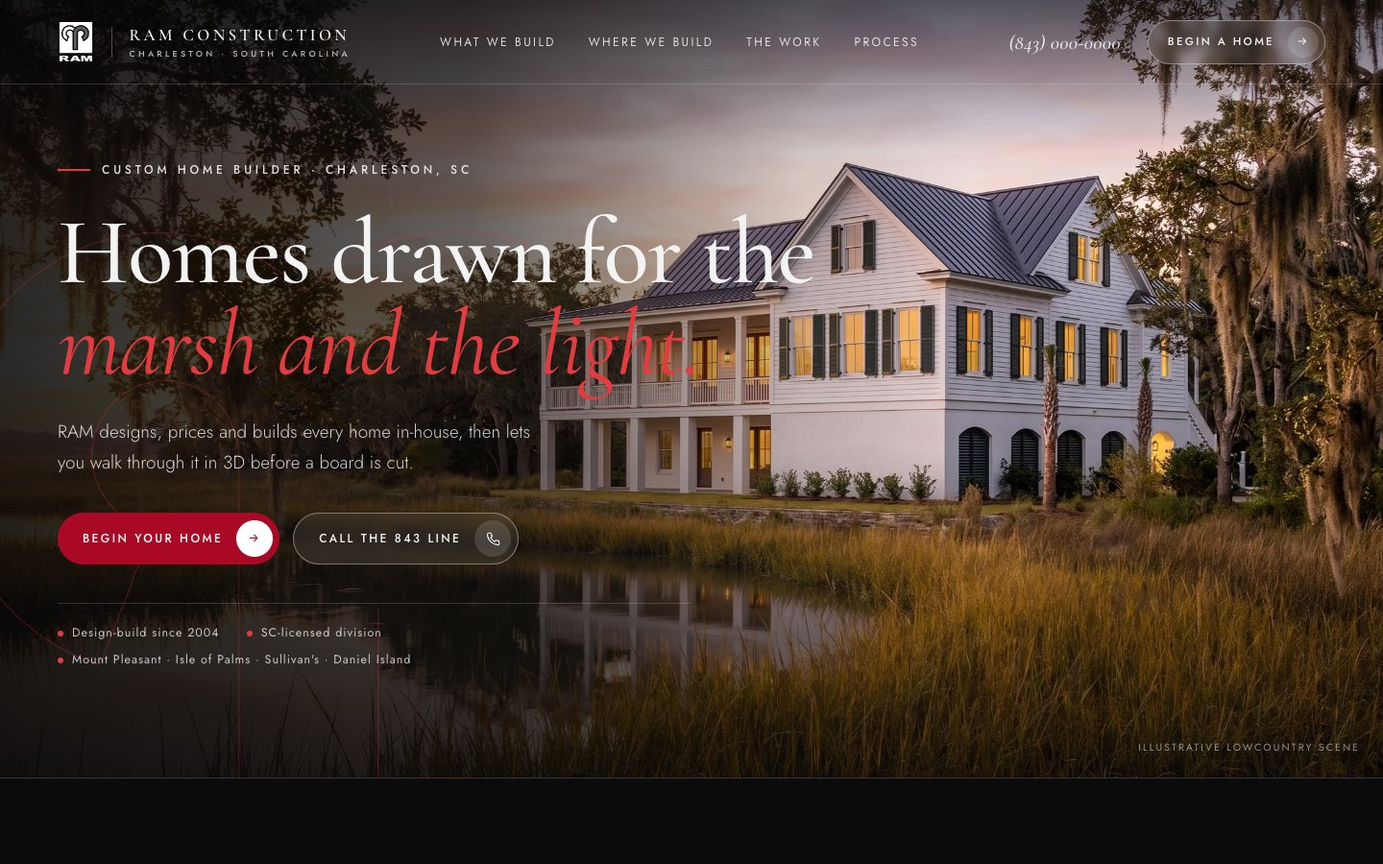
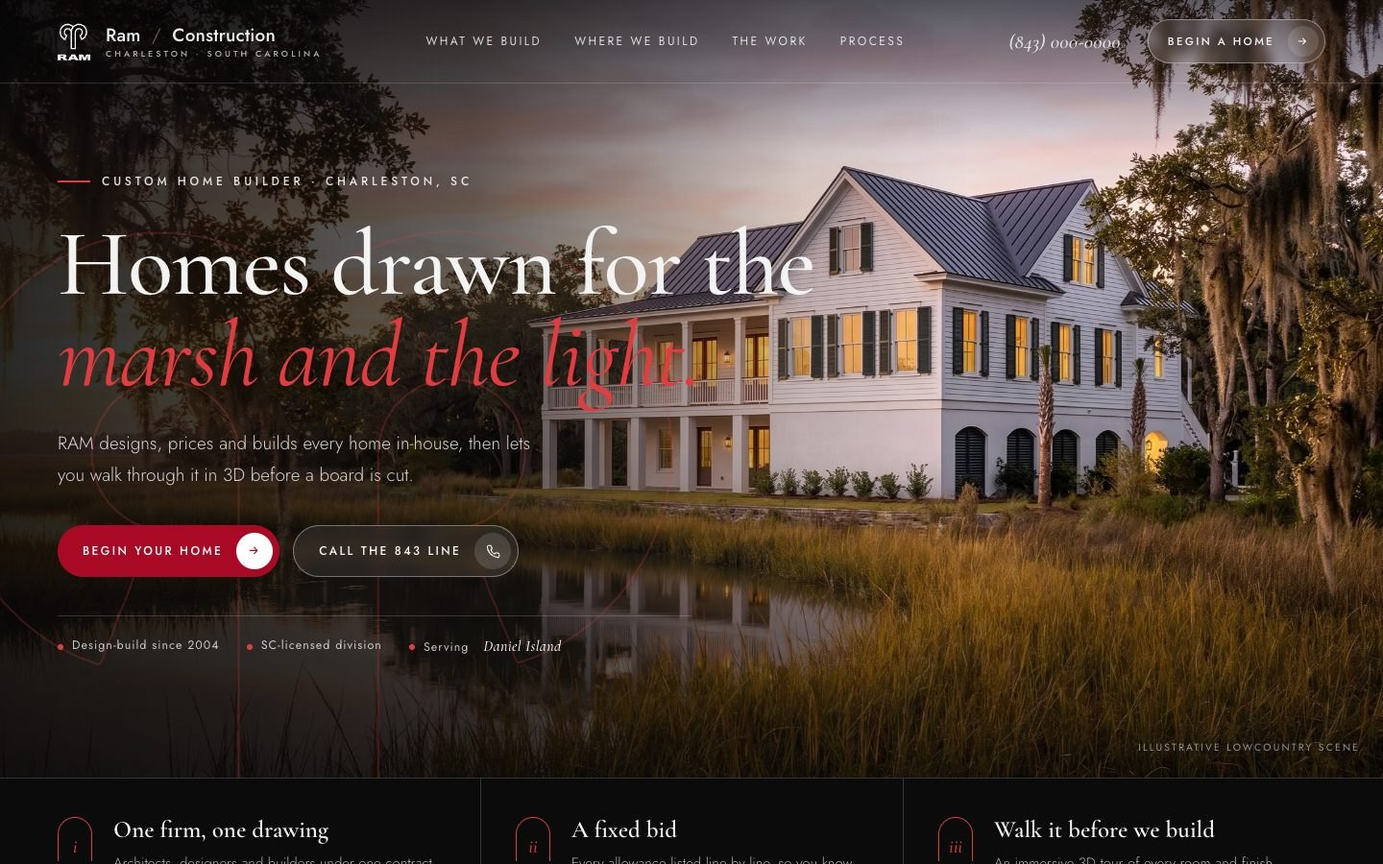
Pass 04: Ram / Construction lockup with the mark inline, open-space chapter pair, the numbers band on an open room

diff --git a/index.html b/index.html
@@ -85,13 +85,13 @@ em,.it{font-family:var(--serif);font-style:italic;font-weight:400}
 .hdr.is-solid::after{background:var(--rule)}
 .hdr-row{position:relative;width:var(--wrap);margin:auto;height:88px;display:grid;grid-template-columns:auto 1fr auto;align-items:center;gap:40px;transition:height .4s var(--ease)}
 .hdr.is-solid .hdr-row{height:76px}
-.lockup{display:flex;align-items:center;gap:18px}
-.lockup img{height:46px;width:auto;transition:height .4s var(--ease)}
-.hdr.is-solid .lockup img{height:40px}
-.lockup .wm{display:flex;flex-direction:column;gap:6px;padding-left:18px;border-left:1px solid rgba(243,243,243,.3);transition:border-color .4s}
-.hdr.is-solid .lockup .wm{border-color:var(--rule)}
-.lockup .wm b{font:600 17px/1 var(--serif);letter-spacing:.2em;text-transform:uppercase}
-.lockup .wm small{font:500 9px/1 var(--sans);letter-spacing:.36em;text-transform:uppercase;opacity:.72}
+.lockup{display:flex;align-items:center;gap:16px;color:inherit}
+.lockup .mark{height:42px;width:calc(42px * .82);flex:none;fill:currentColor;transition:height .4s var(--ease),width .4s var(--ease)}
+.hdr.is-solid .lockup .mark{height:36px;width:calc(36px * .82)}
+.lockup .wm{display:flex;flex-direction:column;gap:5px}
+.lockup .wm b{font:500 19px/1 var(--sans);letter-spacing:.01em;white-space:nowrap}
+.lockup .wm b i{font-style:normal;font-weight:300;opacity:.45;margin:0 .3em}
+.lockup .wm small{font:500 9px/1 var(--sans);letter-spacing:.34em;text-transform:uppercase;opacity:.7}
 .hdr-nav{display:flex;justify-content:center;gap:34px}
 .hdr-nav a{font:400 12px/1 var(--sans);letter-spacing:.2em;text-transform:uppercase;opacity:.88;position:relative;padding:9px 0;white-space:nowrap}
 .hdr-nav a::after{content:"";position:absolute;left:0;right:0;bottom:0;height:1px;background:var(--amber);transform:scaleX(0);transform-origin:left;transition:transform .35s var(--ease)}
@@ -113,8 +113,8 @@ em,.it{font-family:var(--serif);font-style:italic;font-weight:400}
   linear-gradient(90deg,rgba(5,5,6,.86) 0%,rgba(5,5,6,.62) 34%,rgba(5,5,6,.12) 58%,rgba(5,5,6,0) 70%),
   linear-gradient(0deg,rgba(5,5,6,.66),rgba(5,5,6,0) 42%)}
 .hero-horn{position:absolute;left:-4%;bottom:-16%;width:min(760px,60vw);color:var(--amber);opacity:.22;z-index:1;pointer-events:none}
-.hero-horn path{fill:none;stroke:currentColor;stroke-width:1.4;vector-effect:non-scaling-stroke}
-.js .hero-horn path{stroke-dasharray:2600;stroke-dashoffset:2600;animation:draw 4.2s .6s var(--ease) forwards}
+.hero-horn use{fill:none;stroke:currentColor;stroke-width:1.4;vector-effect:non-scaling-stroke}
+.js .hero-horn use{stroke-dasharray:2600;stroke-dashoffset:2600;animation:draw 4.2s .6s var(--ease) forwards}
 @keyframes draw{to{stroke-dashoffset:0}}
 .hero-in{position:relative;z-index:2;width:var(--wrap);margin:auto;padding:150px 0 96px}
 .kicker{display:flex;align-items:center;gap:12px;font:500 12px/1.5 var(--sans);letter-spacing:.32em;text-transform:uppercase;color:rgba(243,243,243,.9);margin-bottom:30px}
@@ -148,16 +148,31 @@ em,.it{font-family:var(--serif);font-style:italic;font-weight:400}
 .chapter{padding:130px 0 120px}
 .chapter-grid{display:grid;grid-template-columns:1fr 1.05fr;gap:100px;align-items:center}
 .chapter .h2{margin:22px 0 28px}
-.facts{margin-top:44px;border-top:1px solid var(--rule)}
-.facts div{display:grid;grid-template-columns:150px 1fr;gap:20px;padding:16px 0;border-bottom:1px solid var(--rule);font-size:15.5px}
-.facts dt{font:500 11px/1.9 var(--sans);letter-spacing:.24em;text-transform:uppercase;color:var(--red)}
-.facts dd{color:var(--text)}
+.recog{margin-top:36px;padding-top:24px;border-top:1px solid var(--rule);font:italic 500 22px/1.45 var(--serif);color:var(--black);max-width:30ch}
+.recog span{display:block;font:500 11px/1 var(--sans);letter-spacing:.24em;text-transform:uppercase;color:var(--red);margin-bottom:12px;font-style:normal}
 .pair{display:grid;grid-template-columns:1.12fr .88fr;gap:24px;align-items:end}
 .pair .tall .arch{aspect-ratio:3/4.35}
-.pair .short .arch{aspect-ratio:3/3.3}
+.pair .short .arch{aspect-ratio:3/3.5}
 .pair figcaption{border-top:1px solid var(--rule);padding-top:12px;margin-top:0}
 
-/* ── services · the arcade on the tint ───────────────────────────────── */
+/* ── the numbers · figures on an open room (photo band) ───────────────── */
+.numbers{position:relative;min-height:640px;display:flex;align-items:center;color:var(--alabaster);background:var(--black-night);overflow:hidden}
+.numbers-img{position:absolute;inset:0}
+.numbers-img img{width:100%;height:100%;object-fit:cover;object-position:50% 62%}
+.numbers::after{content:"";position:absolute;inset:0;background:linear-gradient(90deg,rgba(5,5,6,.8) 0%,rgba(5,5,6,.6) 50%,rgba(5,5,6,.42) 100%),linear-gradient(0deg,rgba(5,5,6,.5),rgba(5,5,6,0) 40%)}
+.numbers-in{position:relative;z-index:2;width:var(--wrap);margin:auto;display:grid;grid-template-columns:1fr auto;gap:70px;align-items:stretch;padding:120px 0 120px}
+.numbers-body .eyebrow{margin-bottom:44px}
+.figs{display:grid;grid-template-columns:repeat(4,1fr);gap:44px 36px}
+.fig{padding-bottom:22px;border-bottom:1px solid rgba(243,243,243,.32)}
+.fig b{display:block;font:500 clamp(58px,6.2vw,94px)/1 var(--serif);letter-spacing:-.02em;color:var(--alabaster);white-space:nowrap}
+.fig b i{font:italic 400 .36em/1 var(--serif);color:var(--amber);margin-left:.22em;letter-spacing:0}
+.fig span{display:block;margin-top:18px;font:500 11.5px/1.5 var(--sans);letter-spacing:.26em;text-transform:uppercase;color:rgba(243,243,243,.9)}
+.fig small{display:block;margin-top:8px;font:300 13px/1.55 var(--sans);color:rgba(243,243,243,.74)}
+.numbers-title{display:flex;align-items:center;justify-content:center;writing-mode:vertical-rl;transform:rotate(180deg);padding-left:6px;border-right:1px solid rgba(243,243,243,.25)}
+.numbers-title p{font:500 clamp(34px,3.4vw,50px)/1.08 var(--serif);letter-spacing:.01em;color:var(--alabaster);max-height:100%;text-align:center}
+.numbers-title p em{color:var(--amber)}
+.numbers-src{position:absolute;left:calc((100vw - var(--wrap))/2);bottom:24px;z-index:2;font:400 10.5px/1 var(--sans);letter-spacing:.2em;text-transform:uppercase;color:rgba(243,243,243,.55)}
+
 .services{background:var(--tint);padding:120px 0}
 .arcade{display:grid;grid-template-columns:repeat(4,1fr);gap:24px}
 .bay{display:flex;flex-direction:column}
@@ -349,10 +364,10 @@ em,.it{font-family:var(--serif);font-style:italic;font-weight:400}
 /* ── colophon footer ────────────────────────────────────────────────── */
 .ftr{background:var(--black-night);color:rgba(243,243,243,.76);font-size:15px}
 .ftr-sign{display:grid;grid-template-columns:auto 1fr;gap:60px;align-items:center;padding:64px 0 52px;border-bottom:1px solid var(--rule-lt)}
-.ftr-sign .lockup{gap:24px}
-.ftr-sign .lockup img{height:86px}
-.ftr-sign .lockup .wm{gap:8px;padding-left:24px;border-color:rgba(243,243,243,.25)}
-.ftr-sign .lockup .wm b{font-size:21px;color:var(--alabaster)}
+.ftr-sign .lockup{gap:22px;color:var(--alabaster)}
+.ftr-sign .lockup .mark{height:72px;width:calc(72px * .82)}
+.ftr-sign .lockup .wm{gap:8px}
+.ftr-sign .lockup .wm b{font-size:26px}
 .ftr-sign .lockup .wm small{font-size:10px}
 .ftr-line{justify-self:end;text-align:right}
 .ftr-line .fan{width:96px;height:48px;margin:0 0 18px auto;display:block}
@@ -393,13 +408,14 @@ em,.it{font-family:var(--serif);font-style:italic;font-weight:400}
   .hdr-nav,.hdr-cta{display:none}
   .hdr-row{grid-template-columns:auto 1fr auto;height:78px}
   .hdr.is-solid .hdr-row{height:70px}
-  .lockup img{height:42px}
-  .lockup .wm b{font-size:15px}
+  .lockup .mark{height:38px;width:calc(38px * .82)}
+  .lockup .wm b{font-size:17px}
   .hdr-m{display:flex;gap:10px;justify-content:flex-end;grid-column:3}
   .hdr-m a,.hdr-m button{width:46px;height:46px;border-radius:50%;display:grid;place-items:center;border:1px solid rgba(243,243,243,.4);background:rgba(5,5,6,.3);color:var(--alabaster);cursor:pointer}
   .hdr.is-solid .hdr-m a,.hdr.is-solid .hdr-m button{border-color:var(--rule);background:transparent;color:var(--black)}
   .arcade{grid-template-columns:repeat(2,1fr)}
   .acc{height:540px}
+  .figs{grid-template-columns:repeat(2,1fr)}
   .window-grid{grid-template-columns:1fr;gap:44px}
   .steps{grid-template-columns:repeat(2,1fr)}
   .stepc:nth-child(3){border-left:0;padding-left:0}
@@ -411,7 +427,9 @@ em,.it{font-family:var(--serif);font-style:italic;font-weight:400}
 @media (max-width:860px){
   :root{--wrap:calc(100vw - 32px)}
   body{font-size:16px}
-  .hdr .lockup .wm{display:none}
+  .hdr-row{gap:14px}
+  .hdr .lockup .wm small{display:none}
+  .hdr .lockup .wm b{font-size:16px}
   .hero{min-height:max(92vh,640px)}
   .hero-img img{object-position:72% 50%}
   .hero::after{background:linear-gradient(0deg,rgba(5,5,6,.95) 0%,rgba(5,5,6,.82) 55%,rgba(5,5,6,.45) 100%)}
@@ -426,7 +444,17 @@ em,.it{font-family:var(--serif);font-style:italic;font-weight:400}
   .ledger-item{border-left:0;padding:22px 0;border-top:1px solid var(--rule-lt)}
   .ledger-item:first-child{border-top:0}
   .chapter{padding:90px 0}
-  .chapter-grid,.sec-head,.walk-in,.coast-grid,.faq-grid,.door-grid,.creds-row{grid-template-columns:1fr;gap:44px}
+  .chapter-grid,.sec-head,.coast-grid,.faq-grid,.door-grid,.creds-row,.numbers-in{grid-template-columns:1fr;gap:44px}
+  .numbers{min-height:0}
+  .numbers-in{padding:90px 0 80px}
+  .numbers{display:block}
+  .numbers-title{writing-mode:horizontal-tb;transform:none;justify-content:flex-start;padding:0;border-right:0;border-top:1px solid rgba(243,243,243,.25);padding-top:22px}
+  .numbers-title p{max-height:none;text-align:left}
+  .numbers-body .eyebrow{margin-bottom:30px}
+  .figs{gap:30px 22px}
+  .fig b{font-size:52px}
+  .numbers-src{position:static;display:block;width:var(--wrap);margin:0 auto;padding:0 0 26px}
+  .recog{font-size:19px}
   .sec-head{margin-bottom:44px}
   .sec-head .lede{justify-self:start;padding-bottom:0}
   .facts div{grid-template-columns:1fr;gap:4px}
@@ -466,7 +494,8 @@ em,.it{font-family:var(--serif);font-style:italic;font-weight:400}
   .form h3{font-size:25px}
   .fgrid{grid-template-columns:1fr}
   .ftr-sign{grid-template-columns:1fr;gap:40px;padding:64px 0 44px}
-  .ftr-sign .lockup img{height:64px}
+  .ftr-sign .lockup .mark{height:56px;width:calc(56px * .82)}
+  .ftr-sign .lockup .wm b{font-size:21px}
   .ftr-line{justify-self:start;text-align:left}
   .ftr-line .fan{margin:0 0 16px 0}
   .ftr-cols{grid-template-columns:1fr;gap:36px;padding-top:44px}
@@ -478,20 +507,21 @@ em,.it{font-family:var(--serif);font-style:italic;font-weight:400}
 @media (prefers-reduced-motion:reduce){
   *,*::before,*::after{animation:none!important;transition:none!important}
   .js .w,.js .rv{opacity:1!important;transform:none!important}
-  .js .hero-horn path{stroke-dashoffset:0}
+  .js .hero-horn use{stroke-dashoffset:0}
   .hero-img img{transform:none}
   .js .b-marsh{opacity:0}.js .b-room{opacity:1}.js .beats li:nth-child(4){color:var(--amber)}
 }
 </style>
 </head>
 <body>
+<svg width="0" height="0" style="position:absolute" aria-hidden="true"><defs><symbol id="ram-mark" viewBox="155 131 619 692"><path fill="currentColor" fill-rule="evenodd" d="M620.5 143.2 L610.2 139.8 L608.0 138.5 L604.2 137.8 L600.5 136.2 L591.5 134.0 L589.2 134.0 L586.5 133.0 L582.2 133.0 L579.5 132.0 L573.2 132.0 L570.5 131.0 L548.2 131.0 L545.5 132.0 L539.2 132.0 L536.5 133.0 L532.2 133.0 L510.8 138.5 L508.5 139.8 L498.2 143.2 L482.8 151.0 L474.2 156.2 L463.0 164.5 L452.0 174.2 L450.2 174.5 L437.8 163.5 L419.0 151.0 L405.5 144.2 L403.2 143.8 L398.5 141.2 L389.5 138.2 L372.5 134.0 L368.2 134.0 L365.5 133.0 L360.2 133.0 L357.5 132.0 L334.2 132.0 L331.5 133.0 L326.2 133.0 L323.5 134.0 L319.2 134.0 L302.2 138.2 L293.2 141.2 L288.5 143.8 L286.2 144.2 L272.8 151.0 L254.0 163.5 L245.8 170.5 L233.5 182.8 L227.5 190.0 L216.0 206.8 L207.2 223.2 L206.8 225.5 L204.2 230.2 L202.8 235.5 L201.5 237.8 L198.8 248.5 L197.2 252.2 L196.0 260.5 L195.0 263.2 L195.0 267.5 L194.0 270.2 L194.0 276.5 L193.0 279.2 L193.0 303.5 L194.0 306.2 L194.0 312.5 L195.0 315.2 L195.0 319.5 L199.2 337.5 L204.2 352.5 L213.0 371.0 L224.5 388.8 L233.5 400.0 L245.8 412.2 L258.0 422.2 L272.8 431.8 L286.2 438.5 L300.0 443.8 L302.8 443.5 L304.5 440.5 L306.0 435.2 L311.5 422.5 L316.0 409.2 L321.5 396.5 L328.0 378.2 L332.5 368.5 L340.2 348.0 L339.8 346.2 L329.2 342.8 L323.8 340.0 L316.0 334.5 L309.2 327.8 L305.8 323.0 L302.0 316.5 L299.0 308.5 L297.8 303.5 L297.8 301.2 L296.8 298.5 L296.8 287.2 L297.8 284.5 L297.8 282.2 L299.0 277.2 L302.8 267.8 L309.2 258.0 L313.8 253.2 L320.0 248.2 L329.2 243.0 L338.2 240.0 L341.5 239.8 L344.2 238.8 L355.5 238.8 L358.2 239.8 L360.5 239.8 L370.5 243.0 L376.0 245.8 L383.8 251.2 L388.5 255.8 L393.5 262.0 L397.0 267.8 L400.8 277.2 L402.0 282.2 L402.0 284.5 L403.0 287.2 L403.0 611.2 L403.5 612.2 L404.5 612.8 L502.2 612.8 L503.2 612.2 L503.8 611.2 L503.8 286.2 L504.8 283.5 L504.8 281.2 L506.0 276.2 L509.8 266.8 L516.2 257.0 L523.0 250.2 L530.8 244.8 L536.2 242.0 L545.2 239.0 L548.5 238.8 L551.2 237.8 L562.5 237.8 L565.2 238.8 L567.5 238.8 L577.5 242.0 L583.0 244.8 L590.8 250.2 L597.5 257.0 L601.0 261.8 L604.8 268.2 L607.8 276.2 L609.0 281.2 L609.0 283.5 L610.0 286.2 L610.0 297.5 L609.0 300.2 L609.0 302.5 L607.8 307.5 L604.8 315.5 L601.0 322.0 L597.5 326.8 L590.8 333.5 L583.0 339.0 L577.5 341.8 L569.2 344.2 L567.0 345.8 L567.2 348.5 L568.8 351.2 L575.2 368.5 L577.8 373.2 L579.2 378.5 L580.8 381.2 L584.2 391.5 L589.8 404.2 L591.2 409.5 L596.8 422.2 L603.2 440.5 L604.8 442.8 L606.2 442.8 L620.5 437.5 L636.0 429.8 L647.8 422.2 L663.0 410.2 L677.2 395.8 L687.2 382.8 L695.8 369.0 L702.5 355.5 L709.5 336.5 L712.8 323.5 L712.8 320.2 L713.8 317.5 L713.8 314.2 L714.8 311.5 L714.8 305.2 L715.8 302.5 L715.8 278.2 L714.8 275.5 L714.8 269.2 L713.8 266.5 L713.8 262.2 L712.8 259.5 L712.8 257.2 L709.5 244.2 L706.5 235.2 L705.0 232.5 L702.5 225.2 L695.8 211.8 L687.2 198.0 L675.2 182.8 L660.8 168.5 L647.8 158.5 L636.0 151.0Z M397.5 169.2 L395.2 168.8 L390.5 166.2 L378.5 162.2 L373.5 161.0 L371.2 161.0 L368.5 160.0 L365.2 160.0 L362.5 159.0 L356.2 159.0 L353.5 158.0 L338.2 158.0 L335.5 159.0 L329.2 159.0 L326.5 160.0 L323.2 160.0 L320.5 161.0 L318.2 161.0 L313.2 162.2 L301.2 166.2 L298.5 167.8 L296.2 168.2 L281.8 176.0 L272.0 182.5 L259.8 192.5 L251.5 201.0 L241.5 214.0 L236.0 222.8 L229.2 236.2 L228.8 238.5 L225.2 246.2 L223.8 252.5 L222.2 256.2 L221.0 261.2 L221.0 263.5 L220.0 266.2 L220.0 269.5 L219.0 272.2 L219.0 278.5 L218.0 281.2 L218.0 301.5 L219.0 304.2 L219.0 310.5 L220.0 313.2 L220.0 315.5 L221.0 318.2 L221.0 320.5 L223.2 329.5 L229.2 346.5 L235.0 358.0 L247.5 376.8 L255.5 386.0 L268.0 397.2 L278.2 404.5 L287.0 409.8 L288.8 409.5 L290.5 406.5 L291.0 404.2 L306.5 366.5 L308.0 361.0 L306.8 359.5 L298.8 353.5 L291.2 346.0 L286.2 339.8 L279.0 327.5 L274.0 313.5 L272.8 308.5 L272.8 305.2 L271.8 302.5 L271.8 283.2 L272.8 280.5 L272.8 277.2 L274.0 272.2 L279.0 258.2 L283.8 249.8 L290.2 241.0 L297.8 233.2 L305.0 227.2 L313.8 221.8 L317.5 220.5 L322.2 218.0 L333.2 214.8 L335.5 214.8 L338.2 213.8 L342.5 213.8 L345.2 212.8 L354.5 212.8 L357.2 213.8 L362.5 213.8 L371.5 216.0 L382.5 220.0 L394.8 227.2 L401.0 232.2 L408.8 240.0 L410.2 240.0 L415.0 227.2 L423.8 209.8 L432.8 196.0 L433.0 194.0 L429.8 190.5 L419.8 182.5 L405.0 173.0Z M610.5 167.2 L593.5 161.2 L584.5 159.0 L581.2 159.0 L578.5 158.0 L573.2 158.0 L570.5 157.0 L548.2 157.0 L545.5 158.0 L540.2 158.0 L537.5 159.0 L535.2 159.0 L532.5 160.0 L530.2 160.0 L525.2 161.2 L508.2 167.2 L496.8 173.0 L485.2 180.2 L477.0 186.5 L466.5 195.8 L458.5 205.0 L450.2 216.2 L444.0 226.8 L437.2 241.2 L433.2 253.2 L431.0 262.2 L431.0 264.5 L430.0 267.2 L430.0 271.5 L429.0 274.2 L429.0 282.5 L428.0 285.2 L428.0 588.2 L428.5 589.2 L429.5 589.8 L477.2 589.8 L478.2 589.2 L478.8 588.2 L478.8 284.2 L479.8 281.5 L479.8 277.2 L481.0 272.2 L485.0 260.2 L489.8 250.8 L494.2 244.0 L503.8 233.2 L511.0 227.2 L517.8 222.8 L527.2 218.0 L536.2 215.0 L541.2 213.8 L543.5 213.8 L546.2 212.8 L567.5 212.8 L570.2 213.8 L572.5 213.8 L577.5 215.0 L586.5 218.0 L596.0 222.8 L602.8 227.2 L610.0 233.2 L615.5 239.0 L621.8 247.2 L628.8 260.2 L631.8 269.2 L634.0 278.2 L634.0 281.8 L635.0 286.0 L635.0 299.5 L634.0 302.2 L634.0 305.5 L633.0 308.2 L633.0 310.5 L628.8 323.5 L625.0 331.0 L619.5 339.8 L610.0 350.5 L598.2 360.0 L599.2 364.5 L601.8 369.2 L602.2 371.5 L603.8 374.2 L606.2 381.5 L608.8 386.2 L613.2 398.5 L618.0 408.5 L619.8 408.8 L624.0 406.8 L640.8 395.2 L652.2 385.0 L660.2 375.8 L666.5 367.5 L673.8 356.0 L679.5 344.5 L685.5 327.5 L688.8 314.5 L688.8 311.2 L689.8 308.5 L689.8 302.2 L690.8 299.5 L690.8 281.2 L689.8 278.5 L689.8 272.2 L688.8 269.5 L688.8 266.2 L685.5 253.2 L681.5 241.2 L679.0 236.5 L678.5 234.2 L670.8 219.8 L664.2 210.0 L653.2 196.8 L640.8 185.5 L624.0 174.0Z"/><path fill="currentColor" d="M563.5 716.5 L563.0 717.5 L563.0 821.2 L563.5 822.2 L564.5 822.8 L609.2 822.8 L610.2 822.2 L610.8 821.2 L611.0 748.8 L611.8 748.0 L612.8 749.0 L615.8 755.2 L616.2 757.5 L619.8 764.2 L620.2 766.5 L622.8 771.2 L623.2 773.5 L625.8 778.2 L629.2 787.5 L632.8 794.2 L633.2 796.5 L635.8 801.2 L636.2 803.5 L638.8 808.2 L642.2 817.5 L644.8 822.0 L646.2 822.8 L690.2 822.5 L691.2 821.8 L692.5 819.5 L693.0 817.2 L695.5 812.5 L696.0 810.2 L698.5 805.5 L699.0 803.2 L701.5 798.5 L702.0 796.2 L704.5 791.5 L705.0 789.2 L707.5 784.5 L708.0 782.2 L710.5 777.5 L711.0 775.2 L713.5 770.5 L714.0 768.2 L716.5 763.5 L720.0 754.2 L723.0 748.0 L724.0 747.0 L724.8 747.8 L725.0 821.2 L725.5 822.2 L726.5 822.8 L772.2 822.8 L773.2 822.2 L773.8 821.2 L773.8 717.5 L773.2 716.5 L772.2 716.0 L697.5 716.2 L696.0 717.8 L692.2 725.2 L691.8 727.5 L685.2 740.2 L684.8 742.5 L678.2 755.2 L677.8 757.5 L671.2 770.2 L670.8 772.5 L668.2 776.2 L667.5 776.2 L665.8 773.8 L665.5 772.2 L660.0 761.5 L659.5 759.2 L655.0 750.5 L654.5 748.2 L649.0 737.5 L648.5 735.2 L643.0 724.5 L642.5 722.2 L640.0 717.2 L639.0 716.2 L564.5 716.0Z M350.0 821.0 L350.0 822.0 L351.2 822.8 L408.2 822.8 L410.0 821.5 L411.8 819.0 L417.8 807.2 L420.5 804.8 L482.5 804.8 L484.0 805.5 L485.0 806.8 L492.0 821.0 L494.2 822.8 L554.0 822.8 L555.2 821.8 L486.2 718.0 L483.5 716.0 L421.2 716.0 L420.0 716.5 L416.2 721.2Z M451.5 745.5 L452.2 745.5 L453.5 746.8 L460.0 760.0 L462.0 762.8 L469.8 778.2 L470.0 780.0 L469.2 780.8 L434.8 781.0 L433.5 780.2 L433.5 778.2 L437.8 769.8 L439.8 767.0 L450.2 746.8Z M156.5 716.5 L156.0 717.5 L156.0 741.5 L155.0 744.2 L155.0 821.2 L155.5 822.2 L156.5 822.8 L211.2 822.8 L212.2 822.2 L212.8 821.2 L212.8 780.5 L213.2 779.5 L214.5 778.8 L223.5 778.8 L226.2 779.8 L230.0 780.2 L233.8 782.2 L246.5 794.8 L259.5 810.0 L272.5 822.5 L338.2 822.8 L339.5 822.0 L339.2 821.0 L335.2 816.0 L330.2 811.0 L325.2 804.8 L307.0 786.5 L301.0 782.0 L288.0 775.8 L287.0 774.8 L289.8 773.2 L298.5 771.5 L307.5 768.5 L311.0 766.8 L314.8 764.2 L318.2 761.0 L320.8 758.0 L323.8 751.5 L323.8 742.2 L322.2 736.8 L319.8 731.8 L317.2 728.8 L312.8 724.5 L309.0 722.0 L299.5 718.2 L294.5 717.0 L292.2 717.0 L289.5 716.0 L157.5 716.0Z M212.8 738.5 L213.2 737.5 L214.5 736.8 L251.5 736.8 L259.5 739.0 L261.8 740.2 L265.0 744.0 L266.0 747.2 L266.0 749.5 L264.5 752.8 L262.0 755.0 L250.5 758.0 L214.5 758.0 L213.5 757.5 L212.8 756.2Z"/></symbol><path id="glyphdef" fill="currentColor" fill-rule="evenodd" d="M620.5 143.2 L610.2 139.8 L608.0 138.5 L604.2 137.8 L600.5 136.2 L591.5 134.0 L589.2 134.0 L586.5 133.0 L582.2 133.0 L579.5 132.0 L573.2 132.0 L570.5 131.0 L548.2 131.0 L545.5 132.0 L539.2 132.0 L536.5 133.0 L532.2 133.0 L510.8 138.5 L508.5 139.8 L498.2 143.2 L482.8 151.0 L474.2 156.2 L463.0 164.5 L452.0 174.2 L450.2 174.5 L437.8 163.5 L419.0 151.0 L405.5 144.2 L403.2 143.8 L398.5 141.2 L389.5 138.2 L372.5 134.0 L368.2 134.0 L365.5 133.0 L360.2 133.0 L357.5 132.0 L334.2 132.0 L331.5 133.0 L326.2 133.0 L323.5 134.0 L319.2 134.0 L302.2 138.2 L293.2 141.2 L288.5 143.8 L286.2 144.2 L272.8 151.0 L254.0 163.5 L245.8 170.5 L233.5 182.8 L227.5 190.0 L216.0 206.8 L207.2 223.2 L206.8 225.5 L204.2 230.2 L202.8 235.5 L201.5 237.8 L198.8 248.5 L197.2 252.2 L196.0 260.5 L195.0 263.2 L195.0 267.5 L194.0 270.2 L194.0 276.5 L193.0 279.2 L193.0 303.5 L194.0 306.2 L194.0 312.5 L195.0 315.2 L195.0 319.5 L199.2 337.5 L204.2 352.5 L213.0 371.0 L224.5 388.8 L233.5 400.0 L245.8 412.2 L258.0 422.2 L272.8 431.8 L286.2 438.5 L300.0 443.8 L302.8 443.5 L304.5 440.5 L306.0 435.2 L311.5 422.5 L316.0 409.2 L321.5 396.5 L328.0 378.2 L332.5 368.5 L340.2 348.0 L339.8 346.2 L329.2 342.8 L323.8 340.0 L316.0 334.5 L309.2 327.8 L305.8 323.0 L302.0 316.5 L299.0 308.5 L297.8 303.5 L297.8 301.2 L296.8 298.5 L296.8 287.2 L297.8 284.5 L297.8 282.2 L299.0 277.2 L302.8 267.8 L309.2 258.0 L313.8 253.2 L320.0 248.2 L329.2 243.0 L338.2 240.0 L341.5 239.8 L344.2 238.8 L355.5 238.8 L358.2 239.8 L360.5 239.8 L370.5 243.0 L376.0 245.8 L383.8 251.2 L388.5 255.8 L393.5 262.0 L397.0 267.8 L400.8 277.2 L402.0 282.2 L402.0 284.5 L403.0 287.2 L403.0 611.2 L403.5 612.2 L404.5 612.8 L502.2 612.8 L503.2 612.2 L503.8 611.2 L503.8 286.2 L504.8 283.5 L504.8 281.2 L506.0 276.2 L509.8 266.8 L516.2 257.0 L523.0 250.2 L530.8 244.8 L536.2 242.0 L545.2 239.0 L548.5 238.8 L551.2 237.8 L562.5 237.8 L565.2 238.8 L567.5 238.8 L577.5 242.0 L583.0 244.8 L590.8 250.2 L597.5 257.0 L601.0 261.8 L604.8 268.2 L607.8 276.2 L609.0 281.2 L609.0 283.5 L610.0 286.2 L610.0 297.5 L609.0 300.2 L609.0 302.5 L607.8 307.5 L604.8 315.5 L601.0 322.0 L597.5 326.8 L590.8 333.5 L583.0 339.0 L577.5 341.8 L569.2 344.2 L567.0 345.8 L567.2 348.5 L568.8 351.2 L575.2 368.5 L577.8 373.2 L579.2 378.5 L580.8 381.2 L584.2 391.5 L589.8 404.2 L591.2 409.5 L596.8 422.2 L603.2 440.5 L604.8 442.8 L606.2 442.8 L620.5 437.5 L636.0 429.8 L647.8 422.2 L663.0 410.2 L677.2 395.8 L687.2 382.8 L695.8 369.0 L702.5 355.5 L709.5 336.5 L712.8 323.5 L712.8 320.2 L713.8 317.5 L713.8 314.2 L714.8 311.5 L714.8 305.2 L715.8 302.5 L715.8 278.2 L714.8 275.5 L714.8 269.2 L713.8 266.5 L713.8 262.2 L712.8 259.5 L712.8 257.2 L709.5 244.2 L706.5 235.2 L705.0 232.5 L702.5 225.2 L695.8 211.8 L687.2 198.0 L675.2 182.8 L660.8 168.5 L647.8 158.5 L636.0 151.0Z M397.5 169.2 L395.2 168.8 L390.5 166.2 L378.5 162.2 L373.5 161.0 L371.2 161.0 L368.5 160.0 L365.2 160.0 L362.5 159.0 L356.2 159.0 L353.5 158.0 L338.2 158.0 L335.5 159.0 L329.2 159.0 L326.5 160.0 L323.2 160.0 L320.5 161.0 L318.2 161.0 L313.2 162.2 L301.2 166.2 L298.5 167.8 L296.2 168.2 L281.8 176.0 L272.0 182.5 L259.8 192.5 L251.5 201.0 L241.5 214.0 L236.0 222.8 L229.2 236.2 L228.8 238.5 L225.2 246.2 L223.8 252.5 L222.2 256.2 L221.0 261.2 L221.0 263.5 L220.0 266.2 L220.0 269.5 L219.0 272.2 L219.0 278.5 L218.0 281.2 L218.0 301.5 L219.0 304.2 L219.0 310.5 L220.0 313.2 L220.0 315.5 L221.0 318.2 L221.0 320.5 L223.2 329.5 L229.2 346.5 L235.0 358.0 L247.5 376.8 L255.5 386.0 L268.0 397.2 L278.2 404.5 L287.0 409.8 L288.8 409.5 L290.5 406.5 L291.0 404.2 L306.5 366.5 L308.0 361.0 L306.8 359.5 L298.8 353.5 L291.2 346.0 L286.2 339.8 L279.0 327.5 L274.0 313.5 L272.8 308.5 L272.8 305.2 L271.8 302.5 L271.8 283.2 L272.8 280.5 L272.8 277.2 L274.0 272.2 L279.0 258.2 L283.8 249.8 L290.2 241.0 L297.8 233.2 L305.0 227.2 L313.8 221.8 L317.5 220.5 L322.2 218.0 L333.2 214.8 L335.5 214.8 L338.2 213.8 L342.5 213.8 L345.2 212.8 L354.5 212.8 L357.2 213.8 L362.5 213.8 L371.5 216.0 L382.5 220.0 L394.8 227.2 L401.0 232.2 L408.8 240.0 L410.2 240.0 L415.0 227.2 L423.8 209.8 L432.8 196.0 L433.0 194.0 L429.8 190.5 L419.8 182.5 L405.0 173.0Z M610.5 167.2 L593.5 161.2 L584.5 159.0 L581.2 159.0 L578.5 158.0 L573.2 158.0 L570.5 157.0 L548.2 157.0 L545.5 158.0 L540.2 158.0 L537.5 159.0 L535.2 159.0 L532.5 160.0 L530.2 160.0 L525.2 161.2 L508.2 167.2 L496.8 173.0 L485.2 180.2 L477.0 186.5 L466.5 195.8 L458.5 205.0 L450.2 216.2 L444.0 226.8 L437.2 241.2 L433.2 253.2 L431.0 262.2 L431.0 264.5 L430.0 267.2 L430.0 271.5 L429.0 274.2 L429.0 282.5 L428.0 285.2 L428.0 588.2 L428.5 589.2 L429.5 589.8 L477.2 589.8 L478.2 589.2 L478.8 588.2 L478.8 284.2 L479.8 281.5 L479.8 277.2 L481.0 272.2 L485.0 260.2 L489.8 250.8 L494.2 244.0 L503.8 233.2 L511.0 227.2 L517.8 222.8 L527.2 218.0 L536.2 215.0 L541.2 213.8 L543.5 213.8 L546.2 212.8 L567.5 212.8 L570.2 213.8 L572.5 213.8 L577.5 215.0 L586.5 218.0 L596.0 222.8 L602.8 227.2 L610.0 233.2 L615.5 239.0 L621.8 247.2 L628.8 260.2 L631.8 269.2 L634.0 278.2 L634.0 281.8 L635.0 286.0 L635.0 299.5 L634.0 302.2 L634.0 305.5 L633.0 308.2 L633.0 310.5 L628.8 323.5 L625.0 331.0 L619.5 339.8 L610.0 350.5 L598.2 360.0 L599.2 364.5 L601.8 369.2 L602.2 371.5 L603.8 374.2 L606.2 381.5 L608.8 386.2 L613.2 398.5 L618.0 408.5 L619.8 408.8 L624.0 406.8 L640.8 395.2 L652.2 385.0 L660.2 375.8 L666.5 367.5 L673.8 356.0 L679.5 344.5 L685.5 327.5 L688.8 314.5 L688.8 311.2 L689.8 308.5 L689.8 302.2 L690.8 299.5 L690.8 281.2 L689.8 278.5 L689.8 272.2 L688.8 269.5 L688.8 266.2 L685.5 253.2 L681.5 241.2 L679.0 236.5 L678.5 234.2 L670.8 219.8 L664.2 210.0 L653.2 196.8 L640.8 185.5 L624.0 174.0Z"/><path id="horndef" d="M620.5 143.2 L610.2 139.8 L608.0 138.5 L604.2 137.8 L600.5 136.2 L591.5 134.0 L589.2 134.0 L586.5 133.0 L582.2 133.0 L579.5 132.0 L573.2 132.0 L570.5 131.0 L548.2 131.0 L545.5 132.0 L539.2 132.0 L536.5 133.0 L532.2 133.0 L510.8 138.5 L508.5 139.8 L498.2 143.2 L482.8 151.0 L474.2 156.2 L463.0 164.5 L452.0 174.2 L450.2 174.5 L437.8 163.5 L419.0 151.0 L405.5 144.2 L403.2 143.8 L398.5 141.2 L389.5 138.2 L372.5 134.0 L368.2 134.0 L365.5 133.0 L360.2 133.0 L357.5 132.0 L334.2 132.0 L331.5 133.0 L326.2 133.0 L323.5 134.0 L319.2 134.0 L302.2 138.2 L293.2 141.2 L288.5 143.8 L286.2 144.2 L272.8 151.0 L254.0 163.5 L245.8 170.5 L233.5 182.8 L227.5 190.0 L216.0 206.8 L207.2 223.2 L206.8 225.5 L204.2 230.2 L202.8 235.5 L201.5 237.8 L198.8 248.5 L197.2 252.2 L196.0 260.5 L195.0 263.2 L195.0 267.5 L194.0 270.2 L194.0 276.5 L193.0 279.2 L193.0 303.5 L194.0 306.2 L194.0 312.5 L195.0 315.2 L195.0 319.5 L199.2 337.5 L204.2 352.5 L213.0 371.0 L224.5 388.8 L233.5 400.0 L245.8 412.2 L258.0 422.2 L272.8 431.8 L286.2 438.5 L300.0 443.8 L302.8 443.5 L304.5 440.5 L306.0 435.2 L311.5 422.5 L316.0 409.2 L321.5 396.5 L328.0 378.2 L332.5 368.5 L340.2 348.0 L339.8 346.2 L329.2 342.8 L323.8 340.0 L316.0 334.5 L309.2 327.8 L305.8 323.0 L302.0 316.5 L299.0 308.5 L297.8 303.5 L297.8 301.2 L296.8 298.5 L296.8 287.2 L297.8 284.5 L297.8 282.2 L299.0 277.2 L302.8 267.8 L309.2 258.0 L313.8 253.2 L320.0 248.2 L329.2 243.0 L338.2 240.0 L341.5 239.8 L344.2 238.8 L355.5 238.8 L358.2 239.8 L360.5 239.8 L370.5 243.0 L376.0 245.8 L383.8 251.2 L388.5 255.8 L393.5 262.0 L397.0 267.8 L400.8 277.2 L402.0 282.2 L402.0 284.5 L403.0 287.2 L403.0 611.2 L403.5 612.2 L404.5 612.8 L502.2 612.8 L503.2 612.2 L503.8 611.2 L503.8 286.2 L504.8 283.5 L504.8 281.2 L506.0 276.2 L509.8 266.8 L516.2 257.0 L523.0 250.2 L530.8 244.8 L536.2 242.0 L545.2 239.0 L548.5 238.8 L551.2 237.8 L562.5 237.8 L565.2 238.8 L567.5 238.8 L577.5 242.0 L583.0 244.8 L590.8 250.2 L597.5 257.0 L601.0 261.8 L604.8 268.2 L607.8 276.2 L609.0 281.2 L609.0 283.5 L610.0 286.2 L610.0 297.5 L609.0 300.2 L609.0 302.5 L607.8 307.5 L604.8 315.5 L601.0 322.0 L597.5 326.8 L590.8 333.5 L583.0 339.0 L577.5 341.8 L569.2 344.2 L567.0 345.8 L567.2 348.5 L568.8 351.2 L575.2 368.5 L577.8 373.2 L579.2 378.5 L580.8 381.2 L584.2 391.5 L589.8 404.2 L591.2 409.5 L596.8 422.2 L603.2 440.5 L604.8 442.8 L606.2 442.8 L620.5 437.5 L636.0 429.8 L647.8 422.2 L663.0 410.2 L677.2 395.8 L687.2 382.8 L695.8 369.0 L702.5 355.5 L709.5 336.5 L712.8 323.5 L712.8 320.2 L713.8 317.5 L713.8 314.2 L714.8 311.5 L714.8 305.2 L715.8 302.5 L715.8 278.2 L714.8 275.5 L714.8 269.2 L713.8 266.5 L713.8 262.2 L712.8 259.5 L712.8 257.2 L709.5 244.2 L706.5 235.2 L705.0 232.5 L702.5 225.2 L695.8 211.8 L687.2 198.0 L675.2 182.8 L660.8 168.5 L647.8 158.5 L636.0 151.0Z"/></defs></svg>
 
 <!-- ═════ masthead ═════ -->
 <header class="hdr" id="hdr">
   <div class="hdr-row">
-    <a class="lockup" href="#top" aria-label="RAM Construction Charleston, home">
-      <img src="img/brand/ram-logo--bw.svg" alt="RAM Construction" width="38" height="46" loading="eager">
-      <span class="wm"><b>RAM Construction</b><small>Charleston · South Carolina</small></span>
+    <a class="lockup" href="#top" aria-label="Ram Construction Charleston, home">
+      <svg class="mark" aria-hidden="true"><use href="#ram-mark"/></svg>
+      <span class="wm"><b>Ram <i>/</i> Construction</b><small>Charleston · South Carolina</small></span>
     </a>
     <nav class="hdr-nav" aria-label="Primary">
       <a href="#services">What we build</a>
@@ -511,7 +541,7 @@ em,.it{font-family:var(--serif);font-style:italic;font-weight:400}
 </header>
 
 <div class="mnav" id="mnav" role="dialog" aria-label="Menu">
-  <div class="mnav-top"><img src="img/brand/ram-logo--bw.svg" alt="RAM Construction" width="41" height="50"><button type="button" id="mclose" aria-label="Close menu">&times;</button></div>
+  <div class="mnav-top"><svg class="mark" aria-hidden="true"><use href="#ram-mark"/></svg><button type="button" id="mclose" aria-label="Close menu">&times;</button></div>
   <nav aria-label="Mobile">
     <a href="#services">What we <em>build</em></a><a href="#areas">Where we <em>build</em></a><a href="#work">The work</a><a href="#process">Process</a><a href="#faq">Questions</a>
   </nav>
@@ -528,7 +558,7 @@ em,.it{font-family:var(--serif);font-style:italic;font-weight:400}
       <img src="img/w/hero-lowcountry-custom-home-marsh-golden-hour-2400.webp" width="2400" height="1340" fetchpriority="high" alt="A white Lowcountry custom home with double piazzas and a metal roof on the edge of a golden salt marsh at sunset, live oaks with Spanish moss either side">
     </picture>
   </div>
-  <svg class="hero-horn" viewBox="190 128 528 488" aria-hidden="true"><path id="hornpath" d=""/></svg>
+  <svg class="hero-horn" viewBox="190 128 528 488" aria-hidden="true"><use href="#horndef"/></svg>
   <div class="hero-in">
     <p class="kicker">Custom home builder · Charleston, SC</p>
     <h1>
@@ -565,21 +595,33 @@ em,.it{font-family:var(--serif);font-style:italic;font-weight:400}
       <span class="eyebrow"><i>I</i> The Charleston chapter</span>
       <h2 class="h2">Twenty years of RAM, <em>now on the coast.</em></h2>
       <p class="lede">RAM Construction has designed and built custom homes in Charlotte since 2004. RAM Construction Charleston brings the same in-house architects, fixed bids and 3D walk-throughs to the Lowcountry, under its own South Carolina license.</p>
-      <dl class="facts">
-        <div><dt>Since</dt><dd>2004, as a complete in-house design-build firm</dd></div>
-        <div><dt>In-house</dt><dd>Architects, building specialists and designers</dd></div>
-        <div><dt>Recognition</dt><dd>Award-winning homes, several years on Charlotte's Dilworth Home Tour</dd></div>
-        <div><dt>Charleston</dt><dd>A division of RAM Construction, licensed in South Carolina</dd></div>
-      </dl>
+      <p class="recog"><span>Recognition</span>Awards for quality, innovation and design, and multiple years on Charlotte's Dilworth Home Tour.</p>
     </div>
     <div class="pair rv d1">
       <figure class="tall"><div class="arch"><img src="img/w/charleston-piazza-evening-1200.webp" width="1200" height="1607" loading="lazy" alt="A deep Charleston piazza at dusk with white columns, rocking chairs and copper gas lanterns, live oaks and marsh beyond"></div><figcaption class="cap">Illustrative · a Charleston piazza at dusk</figcaption></figure>
-      <figure class="short"><div class="arch"><img src="img/w/ram-brass-bridge-faucet-800.webp" width="800" height="534" loading="lazy" alt="Unlacquered brass bridge faucet over a white apron sink in a RAM kitchen"></div><figcaption class="cap">RAM home · Charlotte, NC</figcaption></figure>
+      <figure class="short"><div class="arch"><img src="img/w/open-living-room-stair-marsh-light-700.webp" width="700" height="933" loading="lazy" alt="Illustrative double-height open living room with tall windows to a screened porch, a white staircase and heart pine floors"></div><figcaption class="cap">Illustrative · an open living room, Mount Pleasant</figcaption></figure>
     </div>
   </div>
 </section>
 
-<!-- ═════ services · the arcade ═════ -->
+<!-- ═════ the numbers · figures on an open room ═════ -->
+<section class="numbers on-dark" id="numbers" aria-label="RAM in numbers">
+  <div class="numbers-img"><img src="img/w/open-plan-great-room-porch-doors-2400.webp" width="2400" height="1350" loading="lazy" alt="Illustrative open-plan great room and kitchen of a Lowcountry home with glass doors folded open to a covered porch and the marsh"></div>
+  <div class="numbers-in">
+    <div class="numbers-body">
+      <span class="eyebrow rv">Why build with RAM</span>
+      <div class="figs">
+      <div class="fig rv"><b>2004</b><span>Design-build since</span><small>RAM began in Charlotte as one firm: architects, builders and designers.</small></div>
+      <div class="fig rv d1"><b>6,000<i>sq ft</i></b><span>The range of a RAM home</span><small>From 6,000 sq ft modern homes in SouthPark to Craftsman bungalows in Dilworth.</small></div>
+      <div class="fig rv d2"><b>1</b><span>Contract, drawing, budget</span><small>One team draws, prices and builds. Nothing is lost between them.</small></div>
+      <div class="fig rv d3"><b>4</b><span>Towns on the coast</span><small>Mount Pleasant, Isle of Palms, Sullivan's Island and Daniel Island.</small></div>
+      </div>
+    </div>
+    <div class="numbers-title rv d1"><p>The chapter, <em>in numbers.</em></p></div>
+  </div>
+  <p class="numbers-src">Figures from RAM Construction, Charlotte · Room is an illustrative scene</p>
+</section>
+
 <section class="services" id="services">
   <div class="wrap">
     <div class="sec-head">
@@ -779,9 +821,9 @@ em,.it{font-family:var(--serif);font-style:italic;font-weight:400}
 <footer class="ftr">
   <div class="wrap">
     <div class="ftr-sign">
-      <a class="lockup" href="#top" aria-label="RAM Construction Charleston, back to top">
-        <img src="img/brand/ram-logo--bw.svg" alt="RAM Construction" width="70" height="86" loading="lazy">
-        <span class="wm"><b>RAM Construction</b><small>Charleston · South Carolina</small></span>
+      <a class="lockup" href="#top" aria-label="Ram Construction Charleston, back to top">
+        <svg class="mark" aria-hidden="true"><use href="#ram-mark"/></svg>
+        <span class="wm"><b>Ram <i>/</i> Construction</b><small>Charleston · South Carolina</small></span>
       </a>
       <div class="ftr-line">
         <svg class="fan" viewBox="0 0 120 60" aria-hidden="true"><g><line x1="60" y1="58" x2="60" y2="8"/><line x1="60" y1="58" x2="95.4" y2="22.6"/><line x1="60" y1="58" x2="110" y2="58"/><line x1="60" y1="58" x2="24.6" y2="22.6"/><line x1="60" y1="58" x2="10" y2="58"/></g><path d="M10 58a50 50 0 0 1 100 0" fill="none" stroke="rgba(243,243,243,.5)" stroke-width="1.2"/><circle cx="60" cy="58" r="3" fill="#E23C41"/></svg>
@@ -803,17 +845,11 @@ em,.it{font-family:var(--serif);font-style:italic;font-weight:400}
   </div>
 </footer>
 
-<svg width="0" height="0" style="position:absolute" aria-hidden="true"><defs><path id="glyphdef" fill="currentColor" fill-rule="evenodd" d=""/></defs></svg>
 
 <script type="application/ld+json">
 {"@context":"https://schema.org","@type":"GeneralContractor","name":"RAM Construction Charleston","description":"Custom home builder and design-build firm serving Charleston and the Lowcountry, SC.","parentOrganization":{"@type":"Organization","name":"RAM Construction","url":"https://www.ramconstructioninc.com","foundingDate":"2004"},"areaServed":[{"@type":"City","name":"Mount Pleasant, SC"},{"@type":"City","name":"Isle of Palms, SC"},{"@type":"City","name":"Sullivan's Island, SC"},{"@type":"Place","name":"Daniel Island, SC"},{"@type":"City","name":"Charleston, SC"}],"knowsAbout":["Custom homes","Coastal and elevated homes","Renovations and additions","Design-build"]}
 </script>
 <script>
-/* horn keyline: the RAM glyph traced from the original logo, drawn as a hairline */
-fetch('img/brand/paths.json').then(r=>r.json()).then(p=>{
-  document.getElementById('hornpath').setAttribute('d',p.glyph);
-  document.getElementById('glyphdef').setAttribute('d',p.glyph+' '+p.left+' '+p.right);
-}).catch(()=>{});
 /* FAQPage JSON-LD built from the visible accordion (one source) */
 (function(){const q=[...document.querySelectorAll('.faq details')].map(d=>({"@type":"Question","name":d.querySelector('summary').textContent.trim(),"acceptedAnswer":{"@type":"Answer","text":d.querySelector('.ans').textContent.trim()}}));
 const s=document.createElement('script');s.type='application/ld+json';s.textContent=JSON.stringify({"@context":"https://schema.org","@type":"FAQPage","mainEntity":q});document.head.appendChild(s)})();

diff --git a/critique/pass-03.md b/critique/pass-03.md
@@ -1,0 +1,53 @@
+# Pass 03 · Fanlight II, the motion pass · RAM Construction Charleston homepage · 2026-09-26
+
+Rohan on pass 02: *"i like this one, lets build it in lovable. Also, we had accordion and horizontal movements of
+cities and sliders, the page looks very static without it. Moreover, in section 3 … can we put a walk-through video
+styled there? like opening a window in a panoramic view where the house is there and then zooms in the house and a
+door opens to a vista of a sitting room with a porch that shows a similar vista."*
+
+Pass 02 is kept as `index.pass02-static.html.bak`. Nothing in the design system changed; three sections gained motion
+and section III became the window.
+
+Renders: `renders/home-1440.jpg` (11,141 px, window frozen on the house beat), `renders/home-390.jpg` (18,617 px),
+`renders/home-1440-window-beats.jpg` (six frames of the sequence at 1.2, 6.0, 8.6, 9.8, 11.2 and 14.0 s),
+`renders/home-1440-colonnade-open.jpg` (third bay open), `renders/home-1440-slider.jpg` (after two "next" presses).
+
+Checks: scrollWidth = viewport at 360 to 1600 (14 widths); mobile menu exercised at 390; the hero town cycle sampled
+over 5 s (text swaps, opacity eases); colonnade arch bottoms within 2 px of each other in every state (822 to 824);
+0 broken images at 1440 once the slider is scrolled (the four the capture flags are lazy tiles off the right edge,
+never requested by a script that does not scroll the track); fonts Cormorant Garamond + Jost; GeneralContractor +
+FAQPage JSON-LD.
+
+## What was added
+
+| Ask | Built |
+|---|---|
+| "accordion" | **The colonnade opens**: the four town arches are one flex row; hover, focus or click opens a bay (flex 2.3), the others narrow and dim; when nobody is touching it the bays take turns every 3.8 s while the section is in view; closed bays set the town at 23 px and collapse their copy so every arch keeps one baseline; even bays sit 56 px lower until they open (the stagger from pass 02, now a lift). Static two-up grid under 861 px and under reduced motion |
+| "horizontal movements of cities" | The place-name marquee stays under the colonnade; the hero chip now reads "Serving <em>Mount Pleasant</em>" and takes the four towns in turn every 2.8 s |
+| "sliders" | **The work slider**: eight frames in a scroll-snap track that bleeds to the right edge (the arch frame first), round prev / next buttons, mouse drag, arrow keys, and a crimson progress rule that tracks the scroll. No before/after drag pair: the library has no verified same-frame pair, and a drag reveal would claim one |
+| The window in section III | **A wide Palladian arch (16:11) plays a 16 s four-beat sequence built from the page's own stills**: the marsh aerial pulls back (the window opening), the hero house crossfades in and the camera pushes in toward the door (scale 1 → 1.48 about the door), two dark door panels with an amber seam appear and slide apart, the great room with the porch and the same marsh drifts, a dip to black closes the loop. A beats list under the heading lights each stage. Under reduced motion the pane rests on the room. A muted `<video class="pane-video">` slot with `data-src` replaces the sequence once the rendered clip exists |
+
+## The rendered clip (not started)
+Recipe `hero-loop` adapted: silent 15 s walk-through, Seedance 2.5 omni_reference, 1080p 16:9, the hero still as the
+reference so the house in the clip is the house on the page. Quote 2026-09-26: **180 credits** (10 s: 120), balance
+915. Job folder `Ram Construction/assets/video/jobs/2026-09-26-charleston-window/` (prompt.txt, job.json). Awaiting
+Rohan's yes; the CSS sequence is the page's fallback either way.
+
+## Score: 90 / 100 (unchanged; motion added, nothing removed)
+Rows 1–9 as pass 02. Row 10 re-verified with the accordion, slider and window in place. The page gained 267 px over pass
+02 (the window pane and the slider's fixed height); still under pass 01.
+
+## Three voices
+- **Creative director:** the door beat is the weakest frame (two flat dark panels); a rendered clip of a real door
+  will replace it, and that is the right order. The colonnade's first render had the open bay's arch 15 px lower than
+  the closed ones (its copy pushed the row down); a fixed row height fixed it. The hero chip's cycling town first sat
+  4 px below its label because the chip row centred its items; baseline alignment fixed it.
+- **Buyer:** the window is the first thing on the page that shows what "walk it before we build" means. The slider's
+  progress rule tells me there is more to the right; the arrows are where I expect them.
+- **Ceiling brand's art director:** the accordion taking turns on its own is the one motion that could read "busy";
+  it is slow (3.8 s) and stops the moment a cursor arrives. Keep it slow.
+
+## Lovable
+Project "RAM Construction Charleston" created 2026-09-26 in Hashvi's workspace from the public comp repo
+(github.com/bytezeroinc-cloud/ram-charleston-comp): id `311f3cd5-c2e8-4f92-aa60-9791bb97bead`. The agent fetched
+the tarball, wrote its plan, was told to proceed, and finished at commit `231a6d2` (about 4.3 credits): the comp's CSS verbatim in `src/styles/charleston.css`, the markup in `src/content/charleston-home.html` with `/img/` paths, the FAQ injected from one constant, all 57 assets in `public/img/`, the behaviours as one React hook, both JSON-LD blocks, fonts and meta as the comp. Its own checks: no overflow at 1440 / 1181 / 860 / 390, menu exercised at 390, hero compared to the render. Our check: the project screenshot matches the comp's hero to the pixel; the preview URL needs a Lovable login (visibility `workspace_edit`), so a full-page capture from here was not possible. Auto-named "Charleston Charm Builder"; rename to "RAM Construction Charleston" in the editor. Not published.
